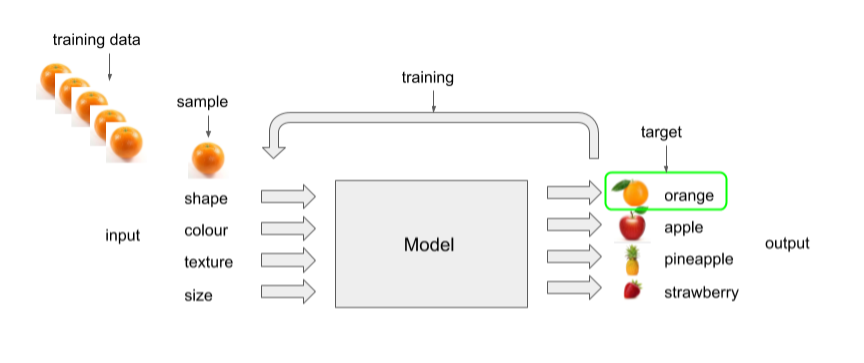
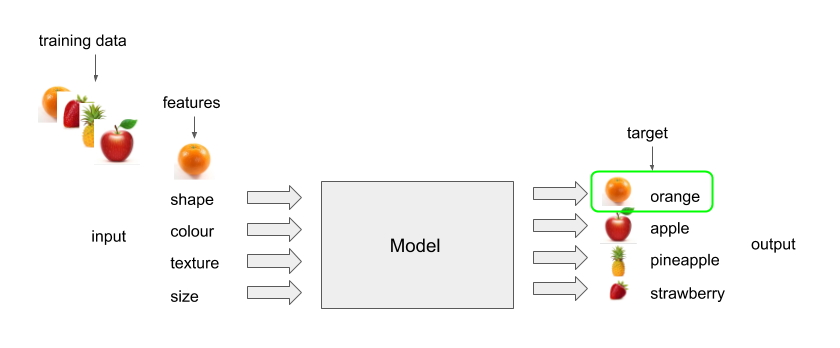
Chapter2 - Review Comments - Section2.1
Update Section 2.1.

diff --git a/Chapter2/chapter2.tex b/Chapter2/chapter2.tex
@@ -3,7 +3,7 @@
 %****************************** Second Chapter *********************************
 %*******************************************************************************
 
-\chapter{Deep Learning}
+\chapter{Deep learning}
 
 \ifpdf
      \graphicspath{{Figs/Chapter2/}}
@@ -11,49 +11,60 @@
     \graphicspath{{Chapter2/Figs/Vector/}{Chapter2/Figs/}}
 \fi
 
-There are many tasks which are hard to write algorithms for. For example, writing an algorithm the identifies a type of fruit using a picture of the fruit is a challenging undertaking. You could try to solve this problem by asking a number of yes or no questions which help whittle down the possibilities to a handful of fruit. A sensible question to ask might be - "Is the fruit round?". If the answer was yes, we could immediately discard options like strawberries, pineapples and pears. Another sensible question to ask might be - "Is the fruit orange?". If the answer is yes, again we could immediately discard unlikely candidates. Finally we could ask - "Is the fruit rough?". And if the answer was no, we could be pretty sure the picture we were looking at was an orange. \newline
-The problem with this approach is that it is very brittle. You could ask a question that would lead a high likelihood that the image was indeed an orange, however the image may not in fact be an orange. For example apples could also be round, orange and smooth. More questions could try to disambiguate the two types of fruit, but there is enough variation in fruit that our algorithm could be confused. Writing rules in this way also is not scalable. There are a large number of types of fruits, and writing questions to determine each one quickly becomes intractable, let alone questions that help distinguish similar fruit. \newline 
-Machine learning (ML) is used to solve such tasks, as well as others such as weather prediction, stock price forecasting and risk modelling ~\citep{hastie2009elements}. ML is the process of using data to build prediction models where these models typically output discrete (classification) or continuous (regression) values. ML uses a number of learning paradigms ~\citep{murphy2012machine}, including supervised learning, unsupervised learning and reinforcement learning, to train models. The models can be divided into three classes, namely shallow, deep and probabilistic ~\citep{hastie2009elements, murphy2012machine}. The models are trained using data to accomplish a task. \newline
-\newpage
-This chapter presents a discussion on the supervised learning paradigm, an analysis of the convolutional network ~\citep{lecun1998gradient} and recurrent network ~\citep{werbos1988generalization} deep learning models, and a discussion on deep learning training techniques, including dropout ~\citep{srivastava2014dropout} and batch normalisation ~\citep{ioffe2015batch} regularisation. 
+There are many tasks which are hard to write algorithms for. For example, writing an algorithm that identifies a type of fruit in a picture of the fruit is a challenging undertaking. One could try to do this by asking a number of yes or no questions to help whittle down the possibilities. Sensible questions might be: "is the fruit round?", "is the fruit green?", and "is the fruit's surface rough?". The problem with this approach is that it is very brittle. More questions could be introduced to disambiguate more cases, but the large variations in the appearance of fruit can cause the algorithm to become confused. Writing rules in this way is also not scalable. There are many types of fruits, and writing questions to determine each one quickly becomes intractable. \par
+ 
+\noindent Machine learning (ML) can be used to solve such tasks, as well as others like weather prediction, stock price forecasting and risk modelling \unskip ~\citep{hastie2009elements}. ML is the process of using data to build prediction models, where these models typically output discrete (classification) or continuous (regression) values. There are various learning paradigms \unskip ~\citep{murphy2012machine}, including supervised learning, unsupervised learning and reinforcement learning, to train models from data in order to perform a specific task. The models can be divided into three classes, namely shallow, deep and probabilistic ~\citep{hastie2009elements, murphy2012machine}. \par
+
+\noindent This chapter presents a discussion on the supervised learning paradigm, a description of deep convolutional \unskip ~\citep{lecun1998gradient} and recurrent network \unskip ~\citep{werbos1988generalization} neural network models, and a discussion on regularisation techniques for deep models, including dropout \unskip ~\citep{srivastava2014dropout} and batch normalisation \unskip ~\citep{ioffe2015batch}. 
 
 
 %********************************** %First Section  **************************************
 
-\section{Supervised Learning}
+\section{Supervised learning}
 
-ML prediction models take as input a set of features. These features are attributes of a data sample. For example in the fruit prediction task mentioned above, input features would be the attributes of a fruit. They would include characteristics such as shape, colour, texture and size. These inputs are provided to a model that maps to outputs. In the example above, these outputs would be types of fruit, and could represent values such as oranges, apples, strawberries and pineapples, amongst others. The model is then taught (trained) to identify the correct fruit (output) based on the features (input) it receives. This type of training paradigm is called supervised learning \citep{bishop2006pattern, hastie2009elements, murphy2012machine}. \newline
+An ML prediction model takes as input a set of features. These features are attributes of a data sample. For example in the fruit prediction task mentioned above, input features might be characteristics such as shape, colour, texture and size. These inputs are provided to a model that maps them to outputs. In the example above, these outputs would be types of fruit, and could represent values such corresponding to orange, apple, strawberry, pineapple, etc. The model is then trained to identify the correct fruit (output) based on the features (input) it receives, from a collection of input-output examples, a type of training called supervised learning \citep{bishop2006pattern, hastie2009elements, murphy2012machine}.
 
 \begin{figure}[H]
-  	\caption{Supervised Learning}
    	\centering
     	\includegraphics[width=\textwidth]{supervised_learning}
+	\caption{A supervised learning model is trained to map input features to expected output.}
 \end{figure}
 
-Features can be continuous valued or discrete, where discrete values are referred to as categorical variables. Outputs can also be continuous or discrete, where discrete outputs are known as classes. Input-output pairs comprise a dataset which is represented as follows, \begin{math} D = \{(x_i, y_i)\}_{i=1}^N \end{math}, where \begin{math} D \end{math} is the dataset, \begin{math} x_i \end{math} is the input sample and \begin{math} y_i \end{math} is the output label. The model has to learn the correct mapping of input to output - features to label. We use data samples to train the model to recognise which features are correlated with which labels. The model is trained using an algorithm where it is shown a sample and it outputs what it believes is the correct label. If it gets the label wrong, an objective function is used to assess how large the error was, and the model is adjusted. We try to minimise this error during training, and because we try to minimise the objective function value, it is called a loss function. The algorithm is expressed as follows: \bigbreak
+\noindent Features can be continuous valued or discrete, where discrete values are referred to as categorical variables. Outputs can also be continuous or discrete, where discrete outputs are known as classes. Example input-output pairs comprise a training dataset which is represented as, \begin{math} D = \{(x_i, y_i)\}_{i=1}^N \end{math}, where \begin{math} D \end{math} is an dataset, \begin{math} x_i \end{math} is the input feature and \begin{math} y_i \end{math} is its expected output label. The model has to learn a general mapping from input features to output labels. \par
+
+\noindent In the fruit example, the model will attempt to build decision boundaries between fruit classes in the feature space. We can visualise this process in a 2-dimensional setting using two fruit features, say shape and colour. Figure 2.2 shows an example of synthetically generated samples in this 2D feature space and a potential decision boundary.
+
+\begin{figure}[H]
+   	\centering
+    	\includegraphics[width=0.8\textwidth]{oranges_and_apples_decision_boundary}
+	\caption{A model decision boundary between two classes.}
+\end{figure}
+
+\noindent Data is assumed to be generated by the same underlying process, and is divided into two classes: independent and identically distributed (IID), and non-IID. In the context of IID data, samples are independent and therefore order invariant; whilst in the context of non-IID data, samples are dependent and order matters. The class of data can determine the best choice of model for prediction. \par
+
+\noindent Training data is typically subdivided into three sets: training, validation and test. The training set provides in sample data - input-output pairs which are exposed to the model during training and used to update its parameters. The validation set approximates out of sample data used to adjust model architecture, as well as hyperparameters (meta model parameters which configure its operation). The test set is used to assess the models prediction performance after training is complete. These results establish an objective measure of the model's utility.  \par
+
+\noindent An objective function is used to measure the prediction performance of a model during training, and can compute an error or reward signal. When the objective computes an error, it is called a loss function, which measures the difference between the model's predicted output and the target output (the labels in the training set). As the model parameters are updated during training, the loss value changes and produces a multidimensional loss surface. The training algorithm tries to minimise this loss using a method of optimisation, such as bayesian, evolutionary or first order \unskip ~\citep{hastie2009elements, bishop2006pattern, murphy2012machine}. \par
+
+\noindent A popular method of optimisation is gradient decent, an approach which attempts to descend to the lowest region of the loss surface: the global minimum. During training, model parameter updates are computed based on partial derivatives of the loss, with respect to the individual parameter. The magnitude of the updates is dependent on the magnitude of the loss i.e. the bigger the error, the bigger the update. A training algorithm uses the optimsation method to guide the loss toward the global minimum, but in practice a local minimum is usually the best that can be achieved. This process in turn tries to guide the model toward a representative approximation of the underlying distribution of the data, enabling it to make predictions. \newline The supervised learning trianing algorithm is expressed as follows: \par
+
+\bigskip
 
 \begin{algorithm}[H]
 	\SetAlgoLined
 	\textbf{Input} 
-	Training set \begin{math} D = \{(x_i, y_i)\}_{i=1}^N \end{math}, samples and labels\;
-  	\begin{math} S_{batch} \gets sample(S, b) \end{math} // sample a minibatch of size \begin{math} b \end{math} \\
-	 \For{(x, y) \begin{math} \in S_{batch} \end{math}}{
-     		\begin{math} y' \gets predict(x, \; y') \end{math} // predict label for sample \\
-		\begin{math} e \gets y' - y \end{math} // compute error
-     		}
-	Update model w.r.t. \begin{math}  e \end{math}
+	Training set \begin{math} D = \{(x_i, y_i)\}_{i=1}^N \end{math}, of input features and output labels\;
+	\For{Batch \begin{math} B \in D \end{math}}{
+  		\begin{math} S_{batch} \gets sample(B, b) \end{math} // sample minibatch of size \begin{math} b \end{math} \\
+		Intialise parameters $w \in \mathbb{R}$, for model \begin{math} M(w) \end{math} // e.g. random normal initialisation \\
+	 	\For{(x, y) \begin{math} \in S_{batch} \end{math}}{
+     			\begin{math} y' \gets predict(x, \; y') \end{math} // predict label for sample \\
+			\begin{math} e \gets y' - y \end{math} // compute loss
+     			}
+		$ w \gets w - \lambda * \hat{\nabla}_{w} J_{e} (w)$ // partial derivative update of model with respect to cost $e$
+	}
 	\caption{Supervised Learning}
 \end{algorithm} \bigbreak
-
-The model tries to build an approximation of the underlying distribution of data. Two important assumptions are made about the data, that the samples are independent and therefore order invariant, and that the data is identically distributed - that it is generated by the same underlying process for all samples. This type of data is called independently and identically distributed (IID) data. In the above example, the model will attempt to build decision boundaries around fruit classes given the features of the fruit. We can visualise this process in a 2-Dimensional setting using two fruit features, shape and colour. We generate a synthetic dataset using random number generation and then assign classes to our randomly generated classes, see Figure 4 below.
-
-\begin{figure}[H]
-  	\caption{Model Decision Boundary}
-   	\centering
-    	\includegraphics[width=0.8\textwidth]{oranges_and_apples_decision_boundary}
-\end{figure}
-
-Another class of data called non-IID data, where data samples are dependent and the sequence matters. These data are typically divided into training, validation and test sets for model training, where the type of data directly determines the best choice of model for mapping input to output. The choice of model also affects how the surface will look. A popular method of optimisation is gradient decent. Model updates are computed based on the first order parameter partial derivatives of the loss function.If the model only had three parameters, we could once again visualise how a possible loss surface might look. The job of the training algorithm, is to guide our model parameters toward a global minimum, in practice a local minimum is the best we can achieve.
 
 
 %********************************** %Second Section  **************************************
